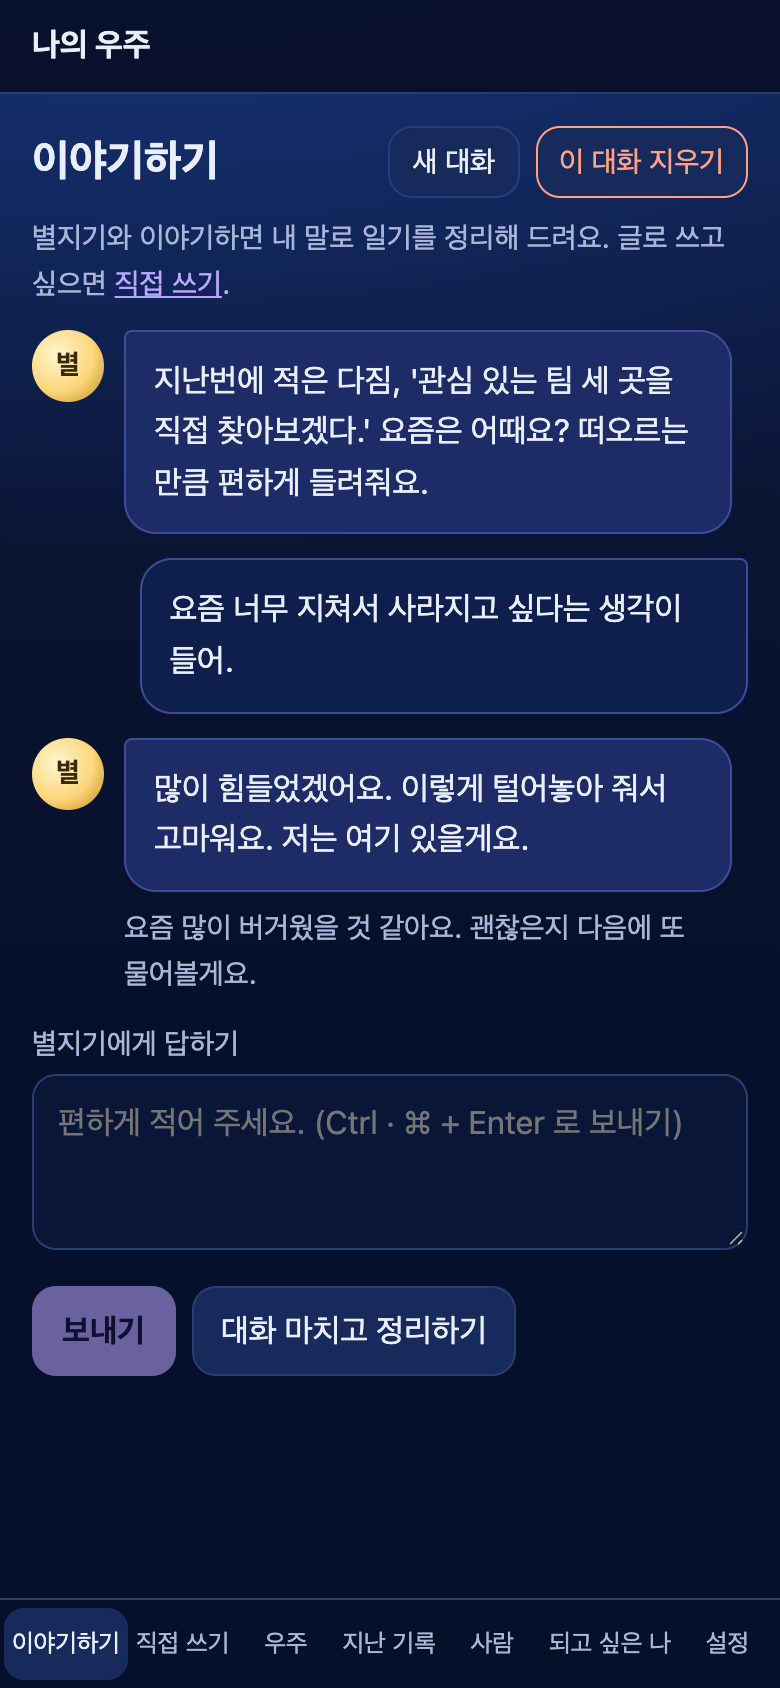
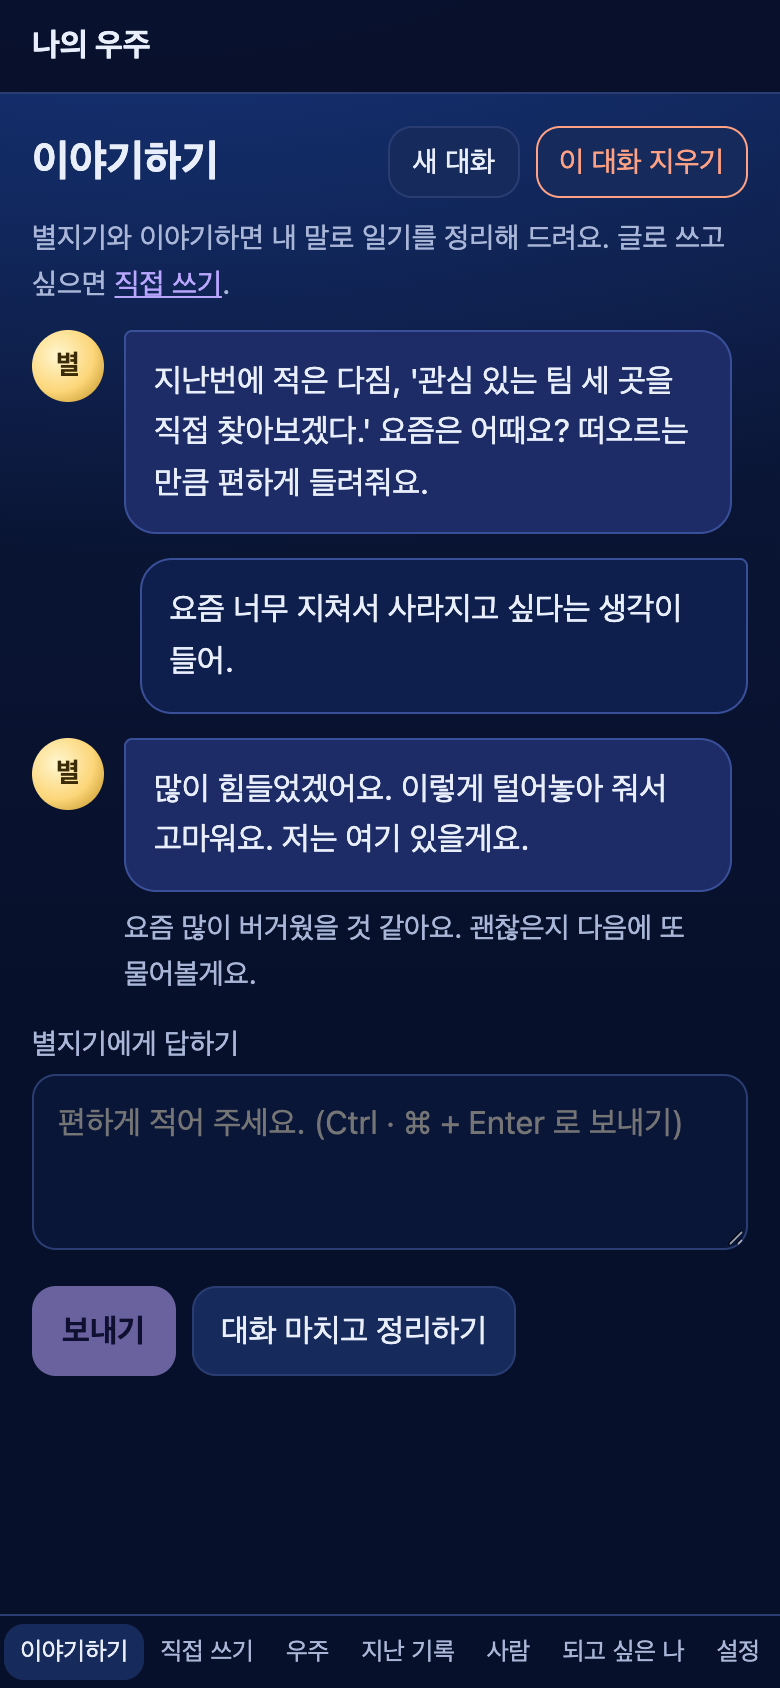
WS19: 아래 막대 7개가 좁은 휴대폰(360px)에서 넘치지 않게 · 지난 기록 문장의 이름 후보도 보내기 직전 실명 검사 표에
- 휴대폰 아래 막대: 글자 폭만큼(flex auto) · 낱말 안에서 끊지 않기, e2e/talk.spec.ts 에 360px 가로 넘침 검사 · 캡처
- 대화 그래프 past 단계가 찾은 지난 기록 문장 속 새 이름 후보를 가명 표(guard)에 더함
- 가짜 데이터 모드 e2e 전체 14개 통과(동의 · 핵심 흐름 · 우주 · 쓰기 · 이야기하기, 휴대폰 · PC)

Changed region(s): [[0.0, 0.9242, 0.5846, 1.0], [0.7077, 0.955, 0.9846, 0.9858], [0.6154, 0.955, 0.6769, 0.9858]]

diff --git a/infra/frontend/app/globals.css b/infra/frontend/app/globals.css
@@ -51,6 +51,8 @@ main.wide { max-width: 1280px; }
   .top .nav { position: fixed; bottom: 0; left: 0; right: 0; justify-content: space-around; gap: 0;
     background: rgba(7, 16, 42, .96); border-top: 1px solid var(--line); padding: 4px 2px calc(4px + env(safe-area-inset-bottom)); }
   .nav a { font-size: .78rem; padding: 8px 4px; text-align: center; flex: 1; }
+  /* 화면이 7개라 좁은 휴대폰(360px)에서는 두 줄로(가로로 넘치지 않게, 낱말 단위로 줄바꿈) */
+  .nav a { white-space: normal; overflow-wrap: normal; line-height: 1.25; padding: 6px 2px; flex: 1 1 auto; }
   /* 입력 칸에 초점이 갈 때 위 막대 · 아래 막대에 가리지 않게 */
   html { scroll-padding: 64px 0 80px; }
 }

diff --git a/infra/frontend/e2e/talk.spec.ts b/infra/frontend/e2e/talk.spec.ts
@@ -75,5 +75,11 @@ test("이야기하기 → 요약 확인", async ({ page }, info) => {
     await expect(talk).toContainText("3/14 진로 상담");
     await expect(talk).toContainText("이어 해 볼까요");
   });
+
+  await test.step("좁은 휴대폰(360px)에서도 아래 막대 7개가 가로로 넘치지 않음", async () => {
+    await page.setViewportSize({ width: 360, height: 780 });
+    expect(await page.evaluate(() => document.documentElement.scrollWidth)).toBeLessThanOrEqual(360);
+    if (dev === "mobile") await shot("06-nav-360");
+  });
   expect(errors).toEqual([]);
 });

diff --git a/app/agents/chat_graph.py b/app/agents/chat_graph.py
@@ -109,7 +109,9 @@ def past(state, ctx):
     lead = state.get("lead") or []
     found = find_past(ctx.repo, ctx.uid, state["text"], state["people"], chat.is_recall(state["text"]))
     ids = {p["id"] for p in lead}
-    return {"past": lead + [p for p in found if p["id"] not in ids]}
+    out = lead + [p for p in found if p["id"] not in ids]
+    # 지난 기록 문장에만 나온 이름 후보(사람 목록에 없는 '이름인지 낱말인지' 이름)도 보내기 직전 실명 검사 표에 넣는다
+    return {"past": out, "people": chat.mask_people(state["people"], [f"{p['thought']} {p['quote']}" for p in out])}
 
 
 def _who(t):
